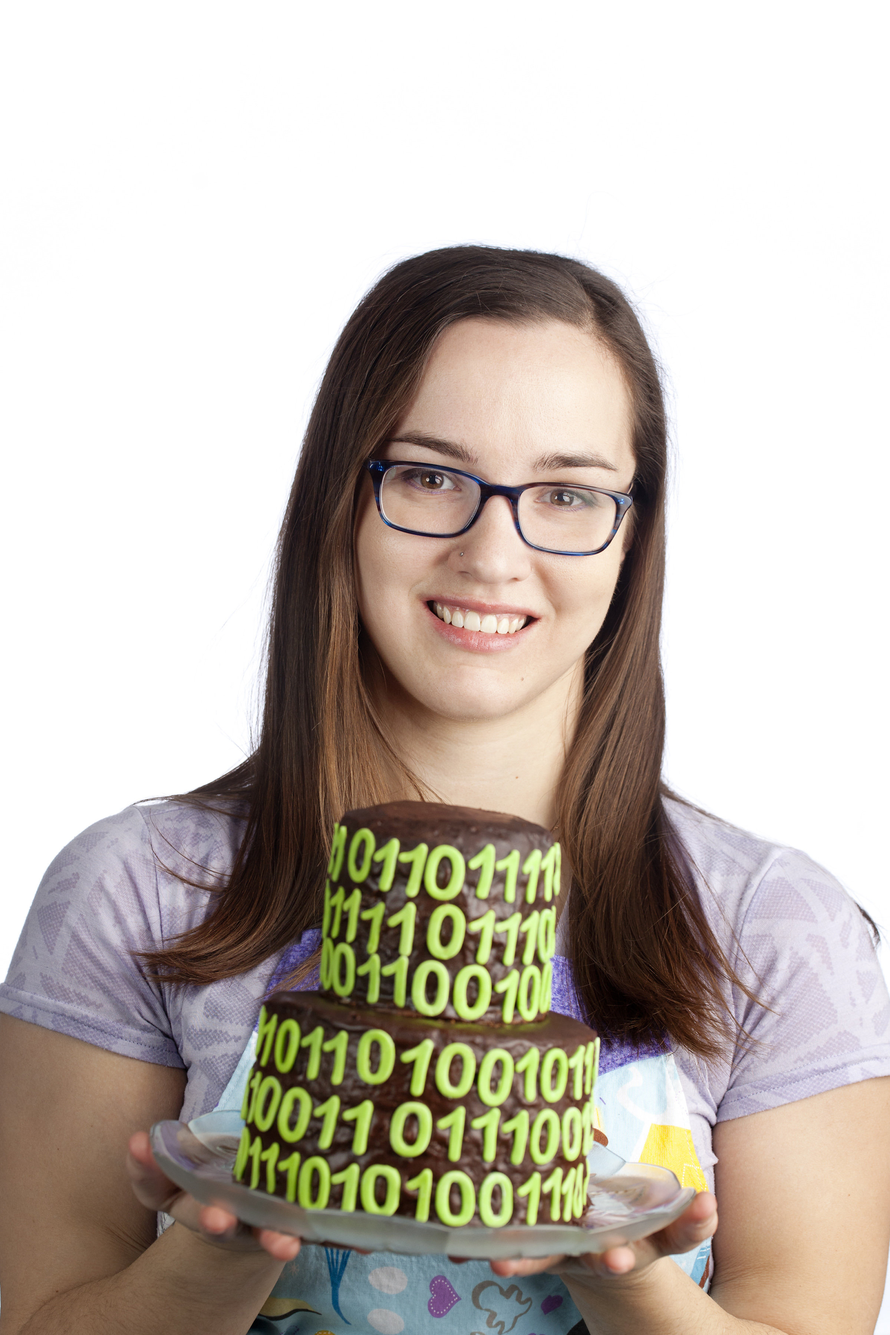
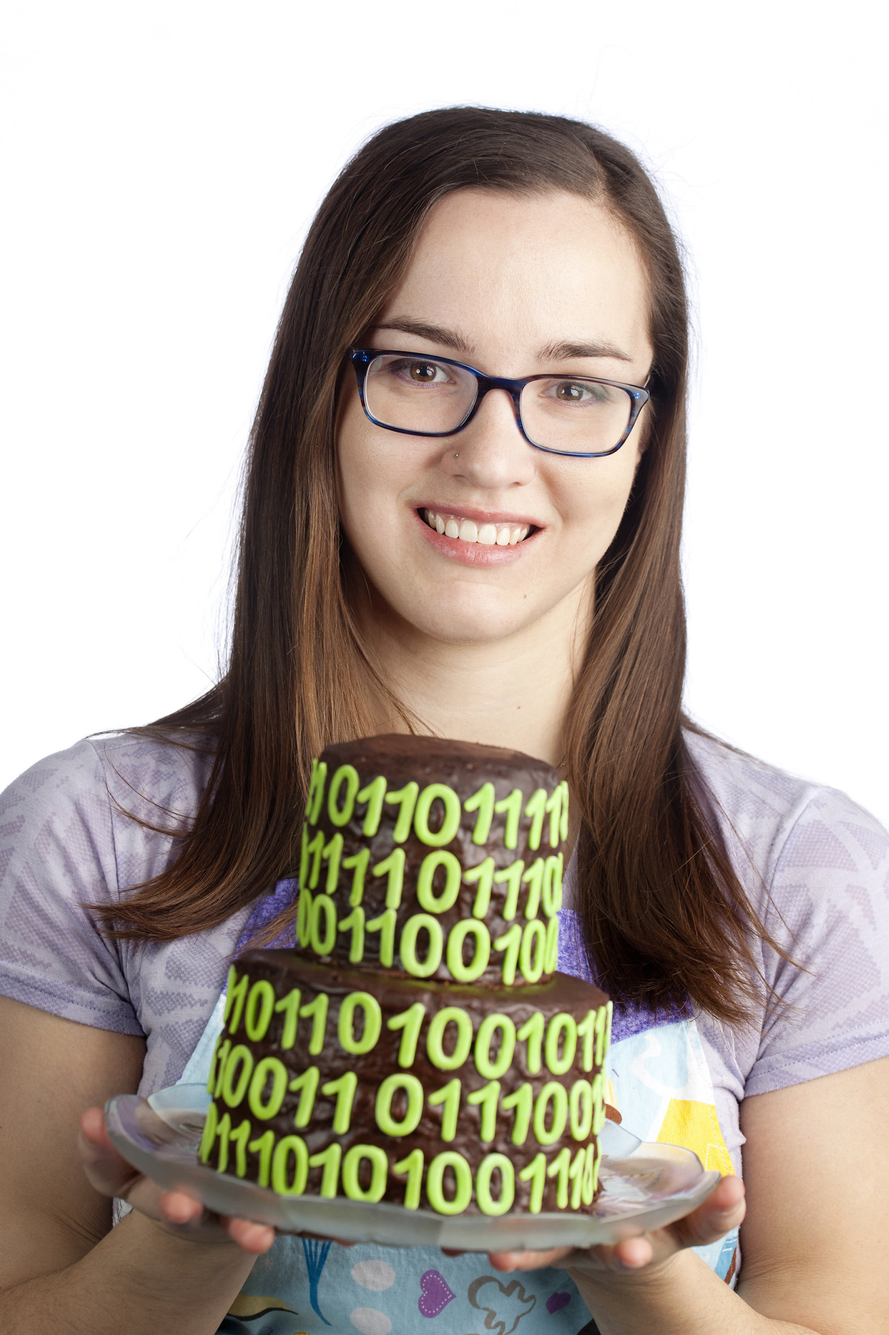
when hover over about me photo it changes

diff --git a/app/AboutMe/partials/about.html b/app/AboutMe/partials/about.html
@@ -1,8 +1,11 @@
 <div id="about" class="section white">
     <div class="row container pad">
         <h1>About Me</h1>
-        <img id="aboutImg" class="left responsive-img" src="img/Kristen_Norris_pro.jpg" alt="">
-        <p>
+        <div id="aboutImg">
+            <img id="proImg" class="aboutImg left responsive-img" src="img/Kristen_Norris_pro.jpg" alt="professional photo">
+            <img id="funImg" class="aboutImg left responsive-img" src="img/Kristen_Norris_fun.jpg" alt="cake photo">
+        </div>
+            <p>
             I first fell in love with Nashville back in 2009 when I visited for a total of 24 hours to see one of my favorite bands perform
             a private showcase. Even though I was only here for a very short amount of time, something about the city captured
             my attention and knew that one day I wanted to make this place my home.

diff --git a/styles/styles.css b/styles/styles.css
@@ -11,11 +11,23 @@ body{
 }
 
 
-#aboutImg{
+.aboutImg{
     width: 25%;
     margin: 0px 15px 15px 0px;
     box-shadow: 2px 2px 15px #008080;
     border-radius: 10px;
+}
+
+#funImg {
+    display: none;
+}
+
+#aboutImg:hover #proImg {
+    display: none;
+}
+
+#aboutImg:hover #funImg{
+    display: inherit;
 }
 
 #landing{
